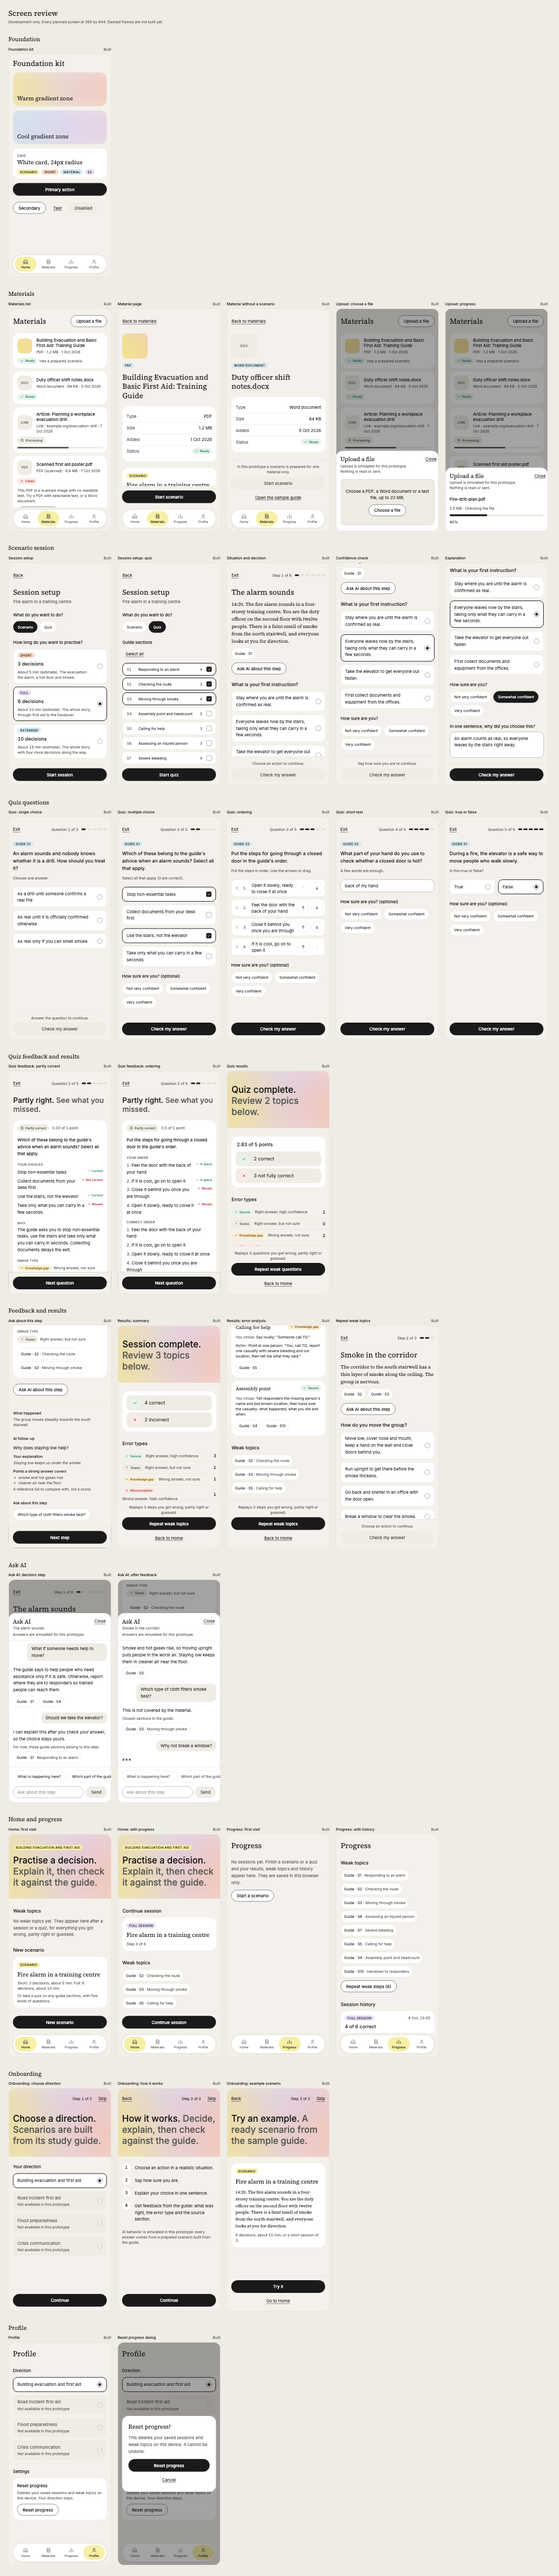
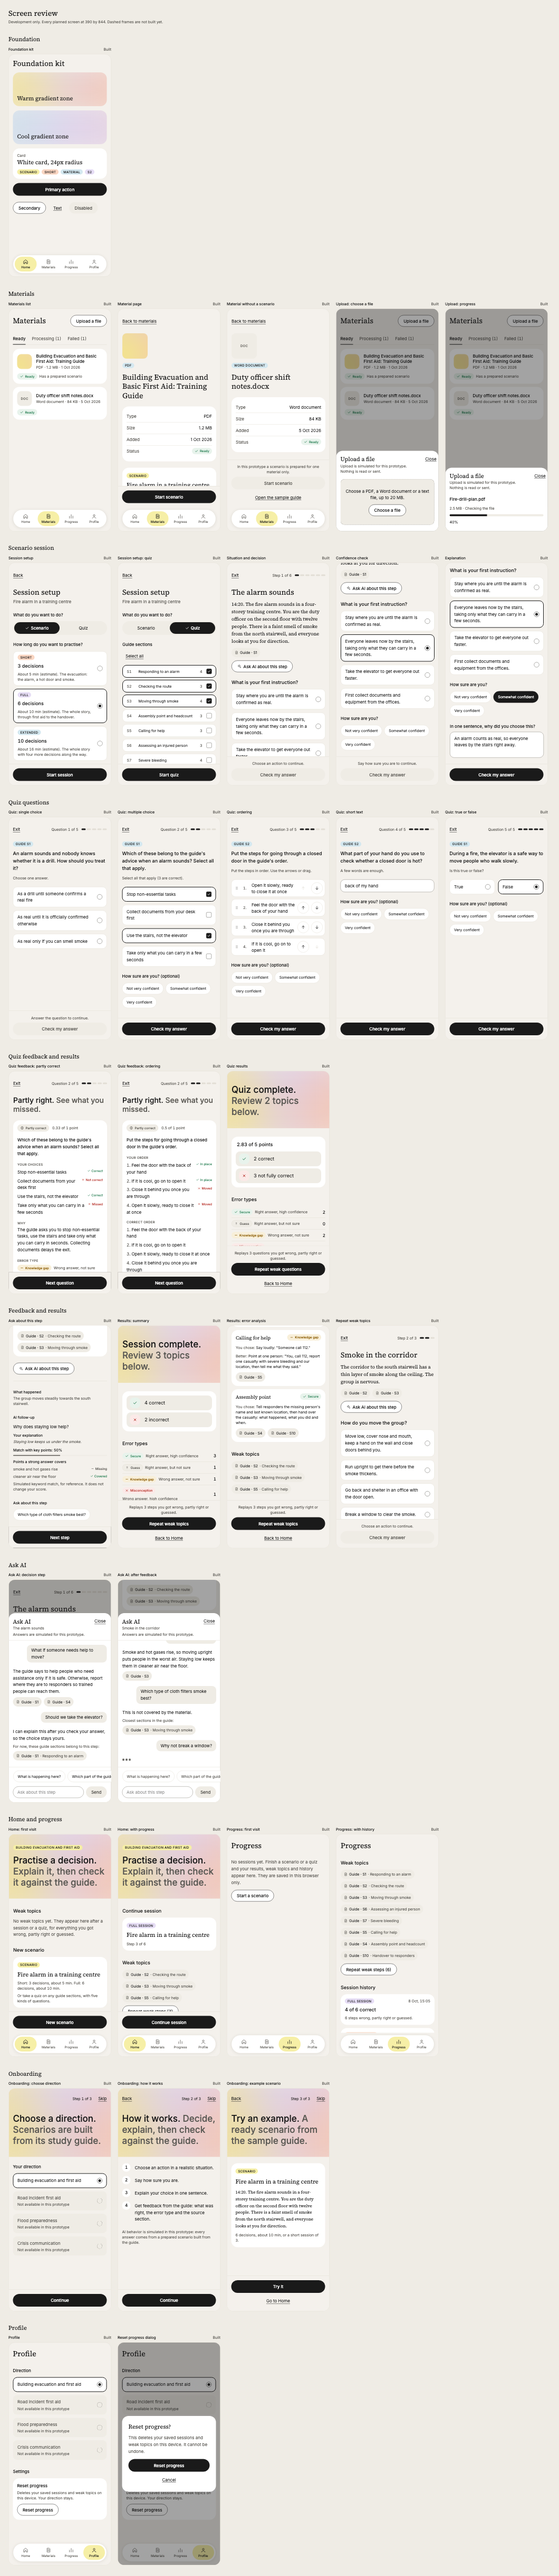
feat: materials tabs for ready, processing and failed
Underline tabs with counts on Processing and Failed and an empty state each.
A started upload appears under Processing with its progress and the list
follows it to Ready or Failed when it ends. Arrow keys, Home and End move
between tabs.

diff --git a/components/UploadSheet/UploadSheet.tsx b/components/UploadSheet/UploadSheet.tsx
@@ -5,23 +5,25 @@ import { useEffect, useRef, useState } from "react";
 import { Button } from "@/components/Button/Button";
 import { StatusBadge } from "@/components/StatusBadge/StatusBadge";
 import { formatSize, materialFromUpload, simulateUpload } from "@/lib/materials";
-import { addUpload } from "@/lib/uploads";
+import { addUpload, updateUpload } from "@/lib/uploads";
 import type { Material } from "@/lib/materials";
 
 export type Stage =
   | { kind: "choose" }
-  | { kind: "progress"; file: { name: string; size: number }; percent: number }
+  | { kind: "progress"; id: string; file: { name: string; size: number }; percent: number }
   | { kind: "done"; material: Material };
 
 /** The upload sheet's content, also drawn on its own by the screen review page. */
 export function UploadPanel({
   stage,
   onStage,
+  onChooseFile,
   onClose,
   onOpenMaterial,
 }: {
   stage: Stage;
   onStage: (stage: Stage) => void;
+  onChooseFile: (file: { name: string; size: number }) => void;
   onClose: () => void;
   onOpenMaterial: (id: string) => void;
 }) {
@@ -55,13 +57,7 @@ export function UploadPanel({
               onChange={(event) => {
                 const file = event.target.files?.[0];
                 event.target.value = "";
-                if (file) {
-                  onStage({
-                    kind: "progress",
-                    file: { name: file.name, size: file.size },
-                    percent: 0,
-                  });
-                }
+                if (file) onChooseFile({ name: file.name, size: file.size });
               }}
             />
             Choose a file
@@ -128,9 +124,15 @@ const STEP_MS = 120;
 export function UploadButton({
   label = "Upload a file",
   variant = "secondary",
+  onUploadStart,
+  onUploadEnd,
 }: {
   label?: string;
   variant?: "primary" | "secondary";
+  /** Called when a file is chosen and appears in the list as Processing. */
+  onUploadStart?: () => void;
+  /** Called when the simulated processing ends, with the final status. */
+  onUploadEnd?: (status: "ready" | "failed") => void;
 }) {
   const router = useRouter();
   const dialogRef = useRef<HTMLDialogElement>(null);
@@ -139,20 +141,23 @@ export function UploadButton({
   useEffect(() => {
     if (stage.kind !== "progress") return;
     if (stage.percent < 100) {
-      const timer = setTimeout(
-        () => setStage({ ...stage, percent: Math.min(100, stage.percent + 5) }),
-        STEP_MS,
-      );
+      const timer = setTimeout(() => {
+        const percent = Math.min(100, stage.percent + 5);
+        updateUpload(stage.id, { progress: percent });
+        setStage({ ...stage, percent });
+      }, STEP_MS);
       return () => clearTimeout(timer);
     }
     // Finished: decide the simulated outcome once, save it, and show it.
     const timer = setTimeout(() => {
-      const material = materialFromUpload(stage.file, simulateUpload(stage.file), new Date());
-      addUpload(material);
+      const result = materialFromUpload(stage.file, simulateUpload(stage.file), new Date());
+      const material = { ...result, id: stage.id };
+      updateUpload(stage.id, { ...material, progress: undefined });
       setStage({ kind: "done", material });
+      onUploadEnd?.(material.status === "failed" ? "failed" : "ready");
     }, STEP_MS);
     return () => clearTimeout(timer);
-  }, [stage]);
+  }, [stage, onUploadEnd]);
 
   function open() {
     setStage({ kind: "choose" });
@@ -176,6 +181,17 @@ export function UploadButton({
         <UploadPanel
           stage={stage}
           onStage={setStage}
+          onChooseFile={(file) => {
+            const material: Material = {
+              ...materialFromUpload(file, simulateUpload(file), new Date()),
+              status: "processing",
+              progress: 0,
+              reason: undefined,
+            };
+            addUpload(material);
+            setStage({ kind: "progress", id: material.id, file, percent: 0 });
+            onUploadStart?.();
+          }}
           onClose={() => dialogRef.current?.close()}
           onOpenMaterial={(id) => {
             dialogRef.current?.close();

diff --git a/components/MaterialsList/MaterialsList.tsx b/components/MaterialsList/MaterialsList.tsx
@@ -1,15 +1,25 @@
 "use client";
 
 import Link from "next/link";
+import { useState } from "react";
 import { FileCover } from "@/components/FileCover/FileCover";
 import { MaterialCover } from "@/components/MaterialCover/MaterialCover";
 import { StatusBadge } from "@/components/StatusBadge/StatusBadge";
+import { Tabs, tabPanelProps } from "@/components/Tabs/Tabs";
 import { UploadButton } from "@/components/UploadSheet/UploadSheet";
 import { formatAdded } from "@/lib/materials";
 import { useUploads } from "@/lib/uploads";
 import type { Material } from "@/lib/materials";
 
-function MaterialRow({ material }: { material: Material }) {
+function MaterialRow({
+  material,
+  onUploadStart,
+  onUploadEnd,
+}: {
+  material: Material;
+  onUploadStart: () => void;
+  onUploadEnd: (status: "ready" | "failed") => void;
+}) {
   return (
     <div className="flex flex-col gap-3 rounded-card bg-surface p-4">
       <Link href={`/materials/${material.id}`} className="flex items-center gap-4 hover:underline">
@@ -46,7 +56,11 @@ function MaterialRow({ material }: { material: Material }) {
         <>
           <p className="text-sm text-text-secondary">{material.reason}</p>
           <div>
-            <UploadButton label="Try another file" />
+            <UploadButton
+              label="Try another file"
+              onUploadStart={onUploadStart}
+              onUploadEnd={onUploadEnd}
+            />
           </div>
         </>
       )}
@@ -54,23 +68,57 @@ function MaterialRow({ material }: { material: Material }) {
   );
 }
 
+type TabId = "ready" | "processing" | "failed";
+
+const emptyStates: Record<TabId, string> = {
+  ready: "No ready materials yet. Upload a file to add one.",
+  processing: "Nothing is processing right now.",
+  failed: "No failed uploads.",
+};
+
 export function MaterialsList({ samples }: { samples: Material[] }) {
   const uploads = useUploads();
+  const [tab, setTab] = useState<TabId>("ready");
   const all = [...(uploads === "loading" ? [] : (uploads ?? [])), ...samples];
+  const count = (status: TabId) => all.filter((material) => material.status === status).length;
+  const shown = all.filter((material) => material.status === tab);
 
   return (
     <div className="flex flex-col gap-6">
       <div className="flex items-center justify-between gap-4">
         <h1 className="font-serif text-2xl">Materials</h1>
-        <UploadButton />
+        <UploadButton onUploadStart={() => setTab("processing")} onUploadEnd={setTab} />
       </div>
-      <ul className="flex flex-col gap-3">
-        {all.map((material) => (
-          <li key={material.id}>
-            <MaterialRow material={material} />
-          </li>
-        ))}
-      </ul>
+      <div className="flex flex-col gap-4">
+        <Tabs
+          idPrefix="materials"
+          label="Materials by status"
+          tabs={[
+            { id: "ready", label: "Ready" },
+            { id: "processing", label: "Processing", count: count("processing") },
+            { id: "failed", label: "Failed", count: count("failed") },
+          ]}
+          value={tab}
+          onChange={setTab}
+        />
+        <div {...tabPanelProps("materials", tab)}>
+          {shown.length === 0 ? (
+            <p className="py-4 text-text-secondary">{emptyStates[tab]}</p>
+          ) : (
+            <ul className="flex flex-col gap-3">
+              {shown.map((material) => (
+                <li key={material.id}>
+                  <MaterialRow
+                    material={material}
+                    onUploadStart={() => setTab("processing")}
+                    onUploadEnd={setTab}
+                  />
+                </li>
+              ))}
+            </ul>
+          )}
+        </div>
+      </div>
     </div>
   );
 }

diff --git a/components/Tabs/Tabs.tsx b/components/Tabs/Tabs.tsx
@@ -1,0 +1,85 @@
+"use client";
+
+import { useRef } from "react";
+import type { KeyboardEvent } from "react";
+
+export type Tab<T extends string> = { id: T; label: string; count?: number };
+
+/**
+ * Underline tabs. Arrow keys move between tabs and select them, Home and End jump to the ends;
+ * only the selected tab is in the Tab order. The panel is labelled by its tab: use tabPanelProps.
+ */
+export function Tabs<T extends string>({
+  idPrefix,
+  label,
+  tabs,
+  value,
+  onChange,
+}: {
+  idPrefix: string;
+  label: string;
+  tabs: Tab<T>[];
+  value: T;
+  onChange: (value: T) => void;
+}) {
+  const refs = useRef(new Map<T, HTMLButtonElement>());
+
+  function onKeyDown(event: KeyboardEvent, index: number) {
+    const last = tabs.length - 1;
+    const next =
+      event.key === "ArrowRight"
+        ? (index + 1) % tabs.length
+        : event.key === "ArrowLeft"
+          ? (index - 1 + tabs.length) % tabs.length
+          : event.key === "Home"
+            ? 0
+            : event.key === "End"
+              ? last
+              : null;
+    if (next === null) return;
+    event.preventDefault();
+    onChange(tabs[next].id);
+    refs.current.get(tabs[next].id)?.focus();
+  }
+
+  return (
+    <div role="tablist" aria-label={label} className="flex gap-6 border-b border-border">
+      {tabs.map((tab, index) => {
+        const selected = tab.id === value;
+        return (
+          <button
+            key={tab.id}
+            ref={(element) => {
+              if (element) refs.current.set(tab.id, element);
+              else refs.current.delete(tab.id);
+            }}
+            type="button"
+            role="tab"
+            id={`${idPrefix}-tab-${tab.id}`}
+            aria-selected={selected}
+            aria-controls={`${idPrefix}-panel`}
+            tabIndex={selected ? 0 : -1}
+            onClick={() => onChange(tab.id)}
+            onKeyDown={(event) => onKeyDown(event, index)}
+            className={`-mb-px min-h-11 border-b-2 text-base ${
+              selected
+                ? "border-text font-medium text-text"
+                : "border-transparent text-text-secondary hover:text-text"
+            }`}
+          >
+            {tab.label}
+            {tab.count !== undefined && <span className="tabular-nums"> ({tab.count})</span>}
+          </button>
+        );
+      })}
+    </div>
+  );
+}
+
+export function tabPanelProps(idPrefix: string, selected: string) {
+  return {
+    role: "tabpanel" as const,
+    id: `${idPrefix}-panel`,
+    "aria-labelledby": `${idPrefix}-tab-${selected}`,
+  };
+}

diff --git a/app/screens/samples.tsx b/app/screens/samples.tsx
@@ -291,7 +291,7 @@ export function UploadSample({ state }: { state: "choose" | "progress" | "failed
     state === "choose"
       ? { kind: "choose" }
       : state === "progress"
-        ? { kind: "progress", file, percent: 40 }
+        ? { kind: "progress", id: "sample-upload", file, percent: 40 }
         : {
             kind: "done",
             material: materialFromUpload(file, simulateUpload(file), new Date("2026-10-08")),
@@ -308,6 +308,7 @@ export function UploadSample({ state }: { state: "choose" | "progress" | "failed
           <UploadPanel
             stage={stage}
             onStage={() => undefined}
+            onChooseFile={() => undefined}
             onClose={() => undefined}
             onOpenMaterial={() => undefined}
           />

diff --git a/lib/uploads.ts b/lib/uploads.ts
@@ -9,3 +9,11 @@ export const useUploads = uploadsStore.useValue;
 export function addUpload(material: Material) {
   uploadsStore.write([material, ...(uploadsStore.read() ?? [])]);
 }
+
+export function updateUpload(id: string, patch: Partial<Material>) {
+  uploadsStore.write(
+    (uploadsStore.read() ?? []).map((material) =>
+      material.id === id ? { ...material, ...patch } : material,
+    ),
+  );
+}

diff --git a/DESIGN.md b/DESIGN.md
@@ -93,7 +93,7 @@ From `docs/mvp-matrix-and-ia.md`.
 - Home: a gradient top with a two-tone headline and the current direction as a tag → "Continue session" card (only when a session is unfinished: scenario, mode, "Step 3 of 6") → weak topics (source chips with titles and "Practise weak topics") → "New scenario" card. The single primary action in the action bar is "Continue session" when one is unfinished, otherwise "New scenario".
 - Weak topics (Home and Progress) come from the saved session history, scenario steps and quiz questions alike: for each step or question, the most recent answer counts. It is weak when that answer was wrong, partly right or guessed, so getting it right and sure later clears it. The guide sections behind them are the weak topics. Actions: "Repeat weak steps" (a scenario repeat session) and "Repeat weak questions" (a quiz of those questions), each shown only when there is something to repeat.
 - Materials: Materials list · Upload sheet · Material page.
-  - Materials list: one row per material (cover, name, type, size and date added, status badge): your uploads first, newest first, then the sample materials with the guide on top. An "Upload a file" secondary button sits next to the page title. Below the title, underline tabs "Ready", "Processing (N)" and "Failed (N)" filter the list (counts on the last two); Ready is open by default, and starting a simulated upload switches to Processing, where the new file shows with its progress until it is Ready or Failed. Each tab has a one-line empty state. The evacuation guide uses the warm gradient cover; other materials use a plain `--surface-muted` square with the file type in 12 uppercase. A Processing row adds a thin progress bar; a Failed row adds its reason in 14 `--text-secondary` and a "Try another file" secondary button that opens the upload sheet.
+  - Materials list: one row per material (cover, name, type, size and date added, status badge): your uploads first, newest first, then the sample materials with the guide on top. An "Upload a file" secondary button sits next to the page title. Below the title, underline tabs "Ready", "Processing (N)" and "Failed (N)" filter the list (counts on the last two); Ready is open by default, and starting a simulated upload switches to Processing, where the new file shows with its progress until it is Ready or Failed; then the list follows it to that tab. Each tab has a one-line empty state. The evacuation guide uses the warm gradient cover; other materials use a plain `--surface-muted` square with the file type in 12 uppercase. A Processing row adds a thin progress bar; a Failed row adds its reason in 14 `--text-secondary` and a "Try another file" secondary button that opens the upload sheet.
   - Material status badge (icon + label + colour): Ready (check, `--correct` on `--correct-bg`), Processing (clock, neutral outlined like Guess), Failed (cross, `--wrong` on `--wrong-bg`).
   - Upload sheet: a bottom sheet like the source sheet, with the line "Upload is simulated for this prototype. Nothing is read or sent." Three states: choose (dropzone with "Choose a file", accepted types PDF, Word, text, up to 20 MB), progress (file name, a progress bar with percent, "Checking the file"), result (Ready: status badge and "Open material"; Failed: reason and "Try another file"). Only the file's name, type and size are used. Image files and files over 20 MB fail with a reason; others become Ready. Uploaded items stay in this browser.
   - Material page: name (serif), type tag, a details card with label/value rows (Type, Size, Added, Status), the scenario card, then sections with a one-line excerpt each (tap opens the source sheet for the guide). Materials without sections say why ("This prototype does not read uploaded files, so there are no sections to show."). The action bar's primary button is "Start scenario" only for the guide; for any other material it is disabled with the line above it: "In this prototype a scenario is prepared for one material only." and a text action "Open the sample guide".
